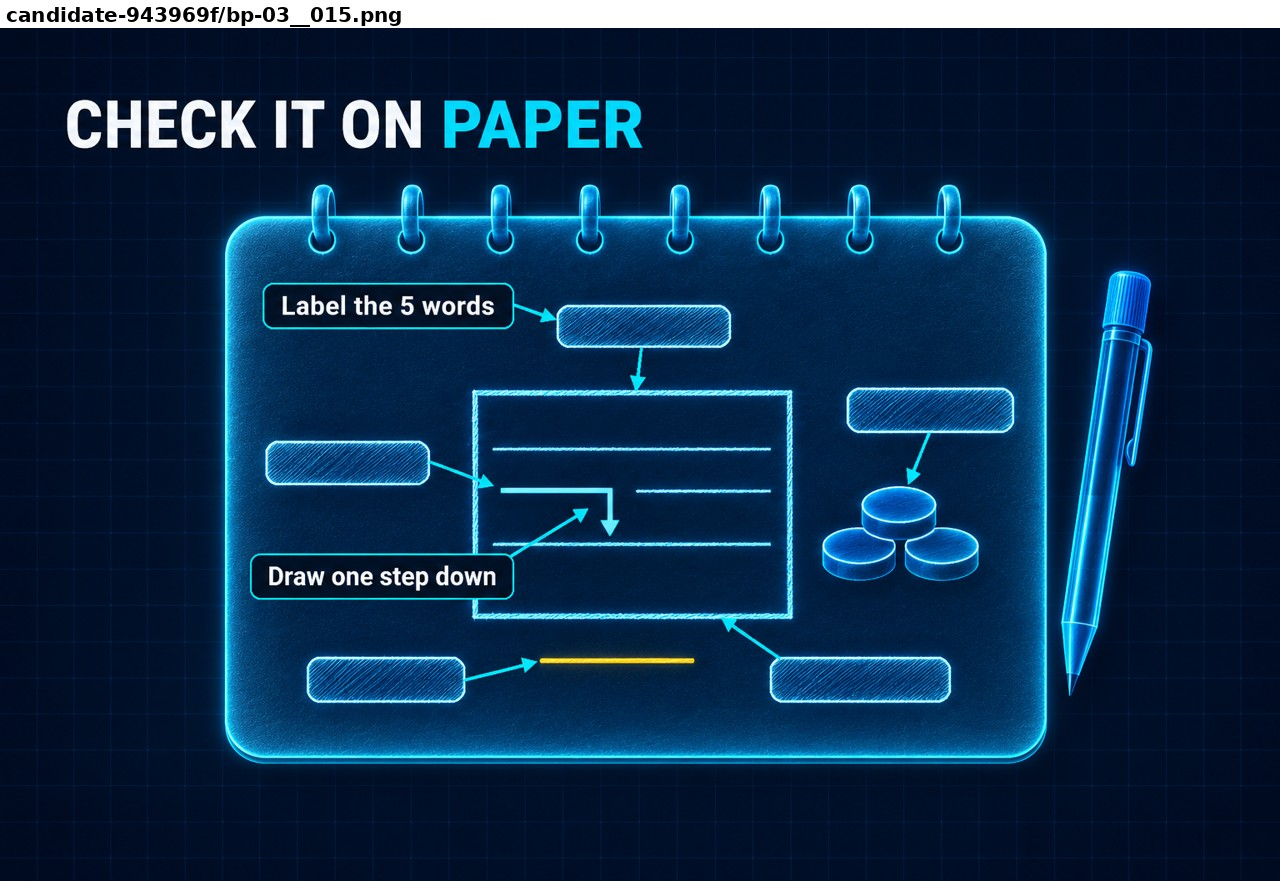
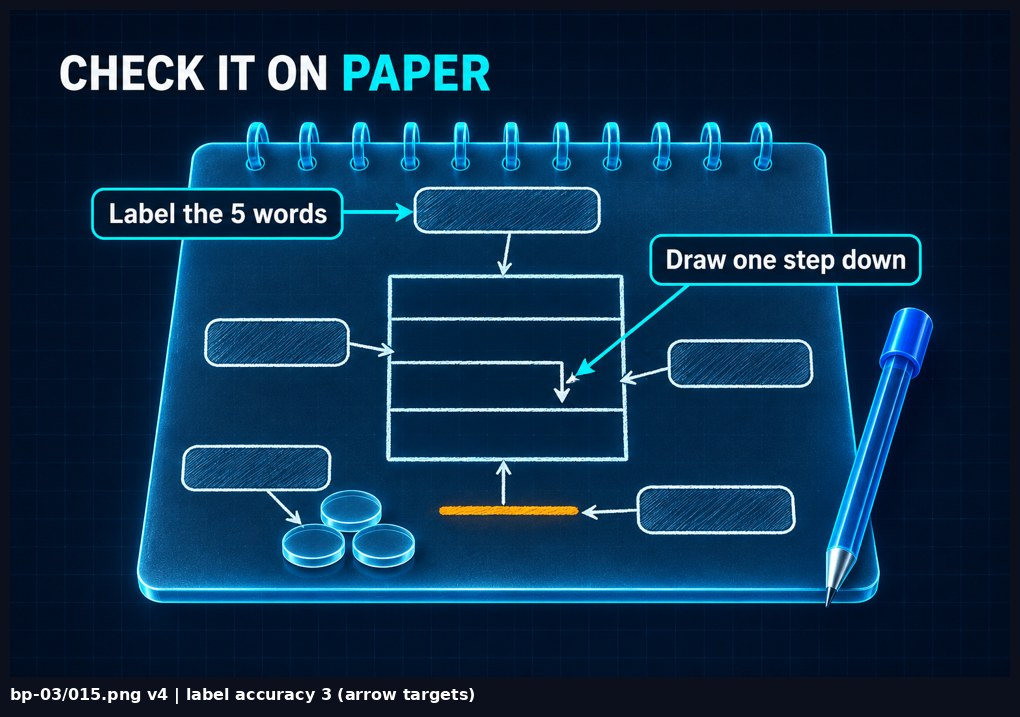
BP-01..03 pass list v9: bp-03 015 v4 scored (amber fixed, arrow targets fail; 91 pass / 1 fail of 92)

diff --git a/blueprint-image-qa/REPORT.md b/blueprint-image-qa/REPORT.md
@@ -2,7 +2,7 @@
 
 Standard: `skills/image-quality-standard/` on `cursor/illustration-engine-3a63` (f688829). Pass = every category at least 4 and no hard fail.
 Scope: the 92 rows of `blueprint-smoke/BP01-03_IMAGE_USE.txt` on `cursor/blueprint-professional-rebuild-d1f6` @ 61c4f97 = **92 rows**. The mascot rows use `course/images/mascot/blueprint-mascot.png`; the old el-06 `28.png` rows were dropped at 0eb1dc6. Every row is listed under its exact path and lesson. Only `status: pass` rows have `pass: true`.
-Last update 13 Nov, 7:30pm WITA. Covers the code-drawn rescore at 61c4f97 (the 6 redrawn frames rescored; the other 19 verified byte-identical with git hash-object) on top of batch 4 (v3 remakes of bp-02 011 and bp-03 009, 015, 016).
+Last update 13 Nov, 7:25pm WITA (015 v4). Covers the code-drawn rescore at 61c4f97 (the 6 redrawn frames rescored; the other 19 verified byte-identical with git hash-object) on top of batch 4 (v3 remakes of bp-02 011 and bp-03 009, 015, 016).
 
 ## Counts (against 92)
 
@@ -17,11 +17,11 @@ Last update 13 Nov, 7:30pm WITA. Covers the code-drawn rescore at 61c4f97 (the 6
 Verified: 92 rows, 92 unique (lesson, path) identities, the same set as IMAGE_USE @61c4f97. Every row's `pass` and `status` agree with its scores (all >= 4, no hard fail). Every committed lesson still, analogy and mascot row's `scored_blob` equals the blob in the repo at its path. All 25 code-drawn blobs match `61c4f97:<scored_file>`. The 19 not redrawn were checked with git hash-object and are byte-identical to their scored blob.
 
 The 1 fail is:
-- bp-03 bp-03-what-is-a-grid-bot/015.png (ChatGPT v4 remake in progress; row left as scored in batch 4)
+- bp-03 bp-03-what-is-a-grid-bot/015.png (v4 candidate scored: label accuracy 3; v5 prompt written)
 
 All 25 code-drawn frames pass. bp-01 and bp-02 have no failing rows. bp-03 waits only on 015.
 
-Contact sheets: `contact_sheet_fails.jpg` and `contact_sheet_fails_stills.jpg` both show the one failing image: the scored bp-03 015 v3 candidate (blob 943969f, gen/.../015/web3.png). A newer web4 now sits in out/ (blob 82e8810), but it has not been scored here.
+Contact sheets: `contact_sheet_fails.jpg` and `contact_sheet_fails_stills.jpg` both show the one failing image, the scored bp-03 015 v4 candidate (blob 82e8810, gen/.../015/web4.png).
 
 ## Mascot
 
@@ -47,7 +47,7 @@ Contact sheets: `contact_sheet_fails.jpg` and `contact_sheet_fails_stills.jpg` b
 
 | path | candidate blob (scored, uncommitted) | blob actually at the path (HEAD) |
 |---|---|---|
-| `course/images/bp-03-what-is-a-grid-bot/015.png` | `943969fc4220` | `334f5e99624b` |
+| `course/images/bp-03-what-is-a-grid-bot/015.png` | `82e88107ceaa` | `334f5e99624b` |
 
 ### Committed ChatGPT images (scored blob = committed blob)
 
@@ -88,7 +88,7 @@ None: all 25 code-drawn frames pass at 61c4f97. `CODE_DRAWN_FIXES_0eb1dc6.md` (a
 
 | path | lesson | scores (cl/co/cr/br/le/ch/ac) | hard fails | remake prompt | notes |
 |---|---|---|---|---|---|
-| `course/images/bp-03-what-is-a-grid-bot/015.png` | bp-03 | 5/4/4/3/5/-/5 | off-brand colour | `specs/remake/bp-03-what-is-a-grid-bot__015.txt` | [remake_needed, ChatGPT web, candidate 943969f] Remake v3 fixes the arrows: "Label the 5 words" has one arrow to the top blank tag. The five blank tags each have one arrow to the top edge, the inner lines, the token pile, the stop line and the bottom edge. "Draw one step down" lands on the L-shaped step arrow, which drops from one inner line to the next without crossing a line. It also has three plain glass discs (no symbols) and a blue pen. Fail: the stop line under the box is lemon yellow (median RGB 250,225,42, hue ~53 deg), not amber #FFB020 (hue ~39 deg). The prompt says no yellow and amber only for the stop line. Off-brand colour; brand 3. Candidate not committed (scored_blob is the uncommitted candidate). v4 prompt written. |
+| `course/images/bp-03-what-is-a-grid-bot/015.png` | bp-03 | 4/4/4/5/5/-/3 | — | `specs/remake/bp-03-what-is-a-grid-bot__015.txt` | [remake_needed, ChatGPT web, candidate 82e8810] Remake v4 fixes the colour. The stop line is amber (warm pixels have a median hue of ~41 deg, p10-p90 35-44 deg; no yellow anywhere). The pen is blue, the tokens are three plain discs, the labels are exact, and the margins are fine (tags 125px from the left and 137px from the right). Fail on label accuracy 3: the arrows no longer land as in v3. The left and right blank tags point at the box sides, not the inner lines or the token pile. No tag points at the bottom edge; instead an untagged arrow runs from the stop line up to it. The token pile moved to the bottom-left. The "Draw one step down" arrow ends beside the L with a stray, doubled white arrowhead, not on it. Candidate not committed (scored_blob is the uncommitted candidate). v5 prompt written. |
 
 ## Passed
 
@@ -198,3 +198,4 @@ None: all 25 code-drawn frames pass at 61c4f97. `CODE_DRAWN_FIXES_0eb1dc6.md` (a
 - 0eb1dc6 code-drawn rescore (7:15pm WITA): 14 changed frames rescored. 8 pass (bp-01 a-ladder, the-fence, title-card, end-card; bp-02 title-card, end-card; bp-03 title-card, end-card). 6 fail (bp-02 hook: tags in the embedded list ~17-18px; bp-03 hook and limit-orders-wait: tickets cover or tangle with the crossings; all three thumbnails: the mascot is too small, and on bp-03 the chip covers the path). The other 11 code-drawn frames are byte-identical. Code-drawn total: 19 of 25 pass. The 3 el-06 28.png rows were dropped (they're gone from IMAGE_USE @0eb1dc6). Totals: 82 pass / 10 fail of 92.
 - Batch 4, v3 remakes (7:20pm WITA): bp-02 011, bp-03 009 and bp-03 016 pass and are committed. Their tags are now 107-117px from the side edges and 77px from the bottom on 016: short of the prompt's 120/100px targets, but not cramped by eye. bp-03 015 fails. Its arrows are now right, but the stop line is lemon yellow (hue ~53 deg), not amber #FFB020, which is an off-brand colour. The v4 prompt is in `specs/remake/` (v3 moved to `_superseded/`). Totals: 85 pass / 7 fail of 92.
 - 61c4f97 code-drawn rescore (7:30pm WITA): all 6 redrawn frames pass. bp-02 hook now has 28px checklist tags. On the bp-03 hook and limit-orders-wait, the tickets are clear of the drop, the leaders land on the 17 Aug and 30 Aug down-closes, and one "3 more in October" ticket has dots on 2, 5 and 9 Oct. The mascot was removed from the three thumbnails; bp-01 and bp-02 are pixel-identical to their passing e3d737e versions, and on bp-03 the chip sits beside the chart. The other 19 are byte-identical. Code-drawn total: 25 of 25 pass. Totals: 91 pass / 1 fail of 92 (only bp-03 015 left).
+- bp-03 015 v4 (7:25pm WITA): the stop line is now amber (median hue ~41 deg; v3 was ~53 deg lemon), and the margins are fine. It still fails on label accuracy 3: the side tags point at the box sides, no tag points at the bottom edge, an untagged arrow runs from the stop line to the box, the token pile moved, and the step-down tag's arrow ends beside the L with a stray arrowhead. The v5 prompt pins each arrow's target (v4 moved to `_superseded/`). Totals: 91 pass / 1 fail of 92.
